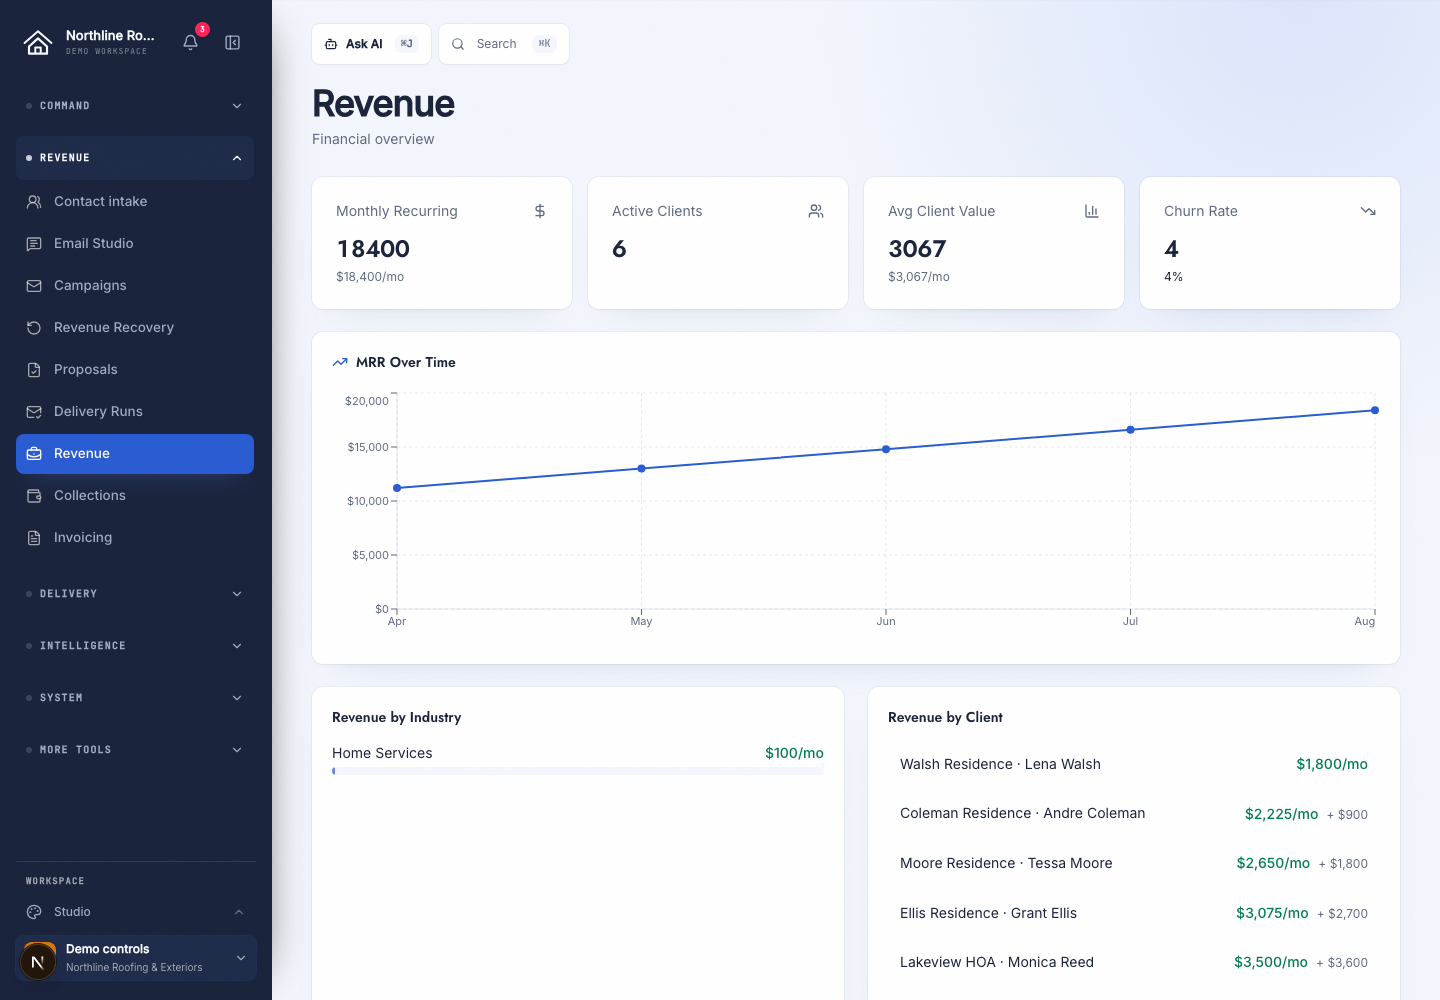
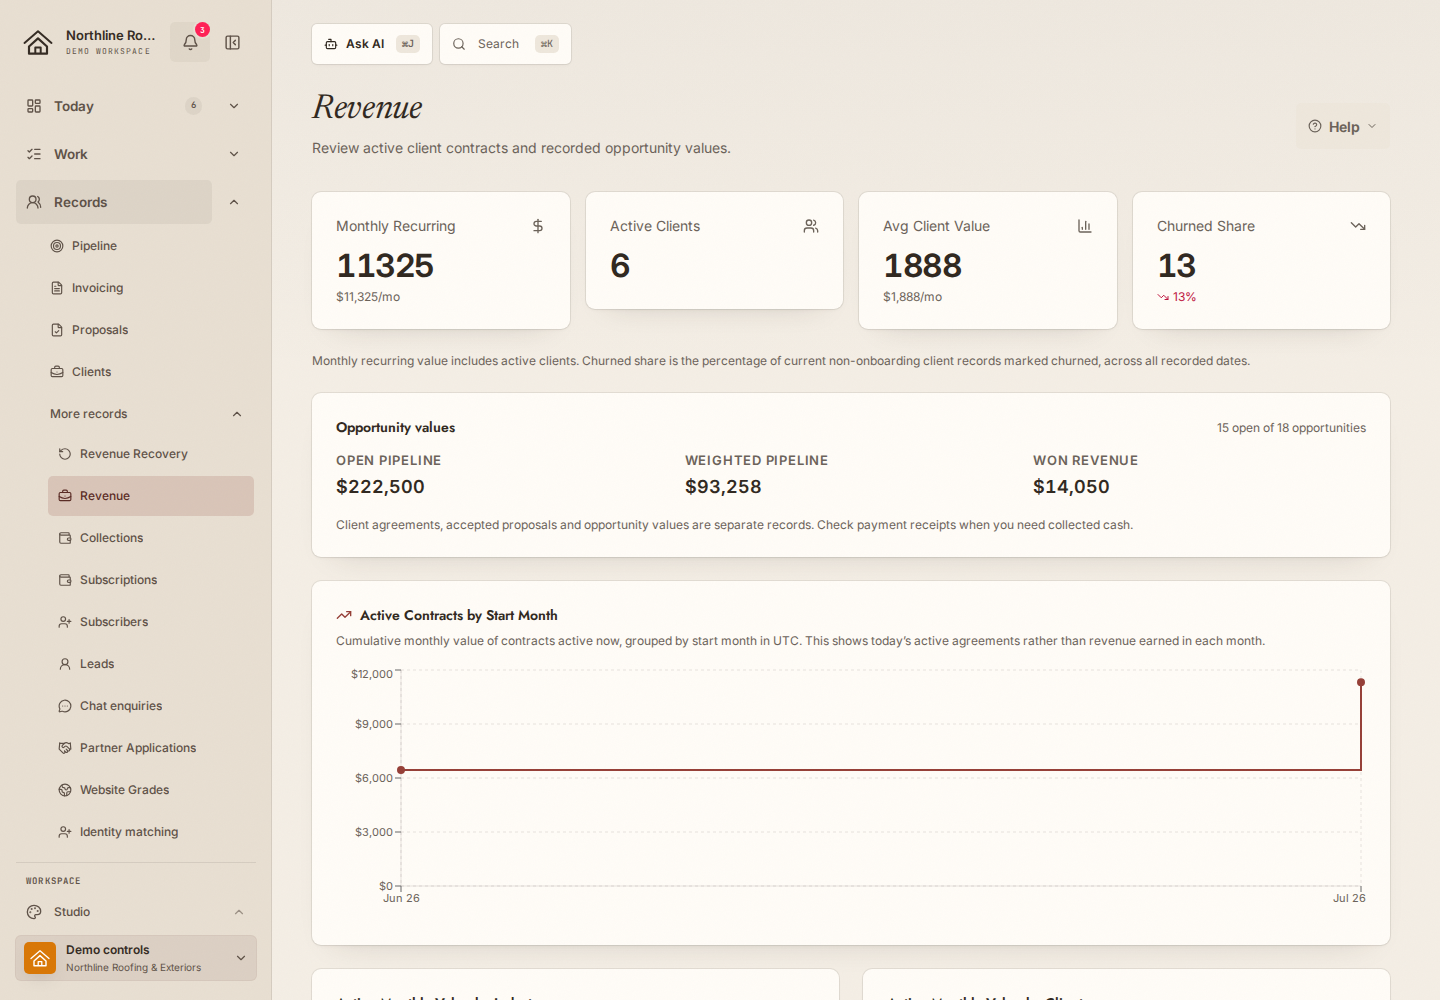
docs: refresh Revenue guide from verified fictional workspace

diff --git a/docs/verification/REVENUE-READ-CORRECTNESS-2026-09-29.md b/docs/verification/REVENUE-READ-CORRECTNESS-2026-09-29.md
@@ -39,7 +39,8 @@ mobile widths. The fictional report reads the same client overrides as Clients.
 - `src/content/command-center-faq.ts`: specific Revenue answer covers the figures,
   chart, current churned share and payment/history verification.
 - `public/docs-llms.txt`: regenerated from the guides. Revenue's fictional screenshot
-  will be refreshed from controlled browser evidence before final handoff.
+  is refreshed from the real demo in a fresh reduced-motion browser context. The
+  complete chart and active monthly total agree; the image and alt text were inspected.
 - No plugin workflow, manifest or setup requirement changes. No migration, provider
   activation, external send or production mutation is included.
 
@@ -56,7 +57,8 @@ PR and exact-commit work-board evidence; pending checks are not acceptance proof
 
 `qa:revenue` verifies desktop/mobile initial error, keyboard retry, retained stale
 figures, empty state, client edits, six fictional scenarios, UTC context, console
-errors and protected/provider isolation. It captures changed guides at both widths.
+errors and protected/provider isolation. It waits for settled figures and charts,
+then captures changed guides and their loaded figures at both widths.
 The existing docs journey additionally verifies documentation search and recovery.
 
 ## Boundaries
